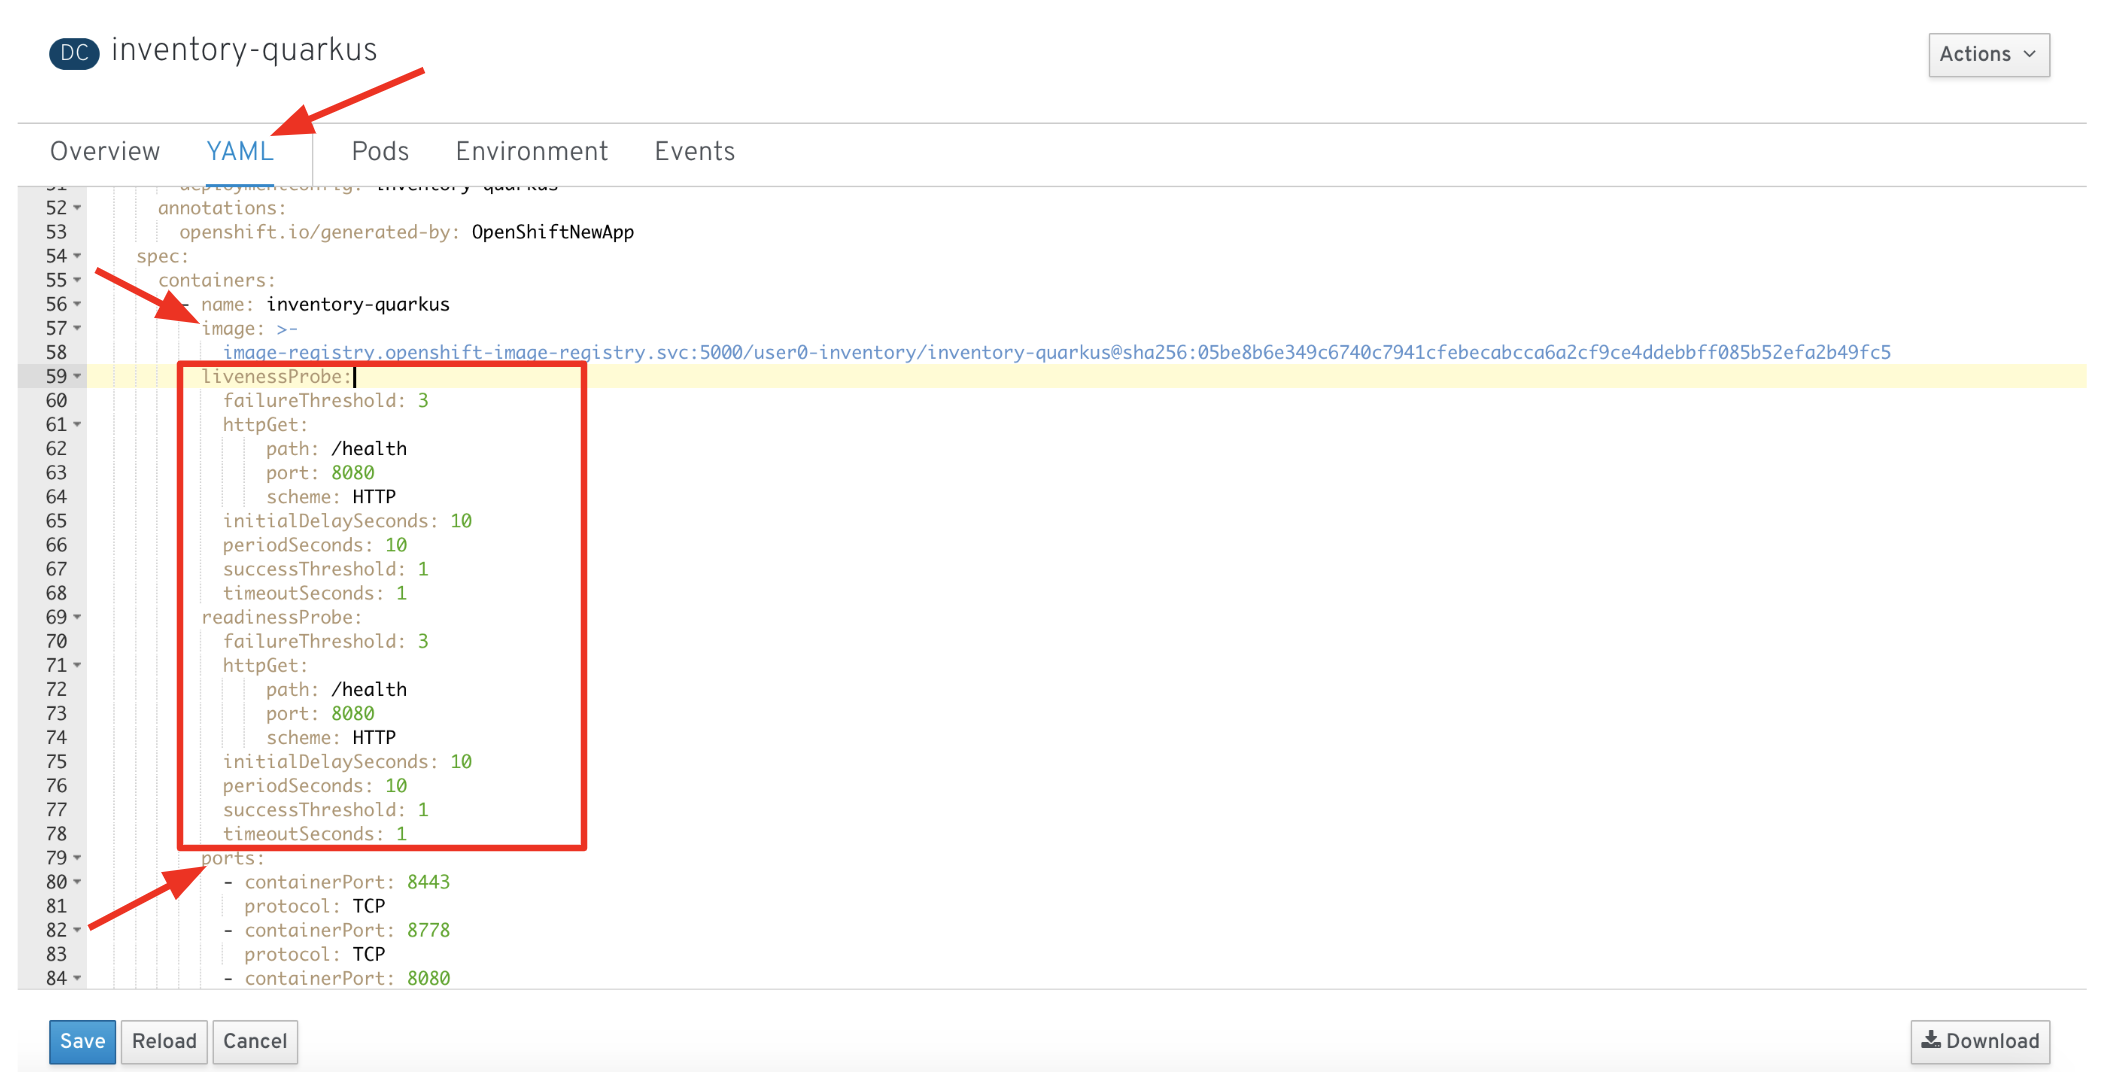
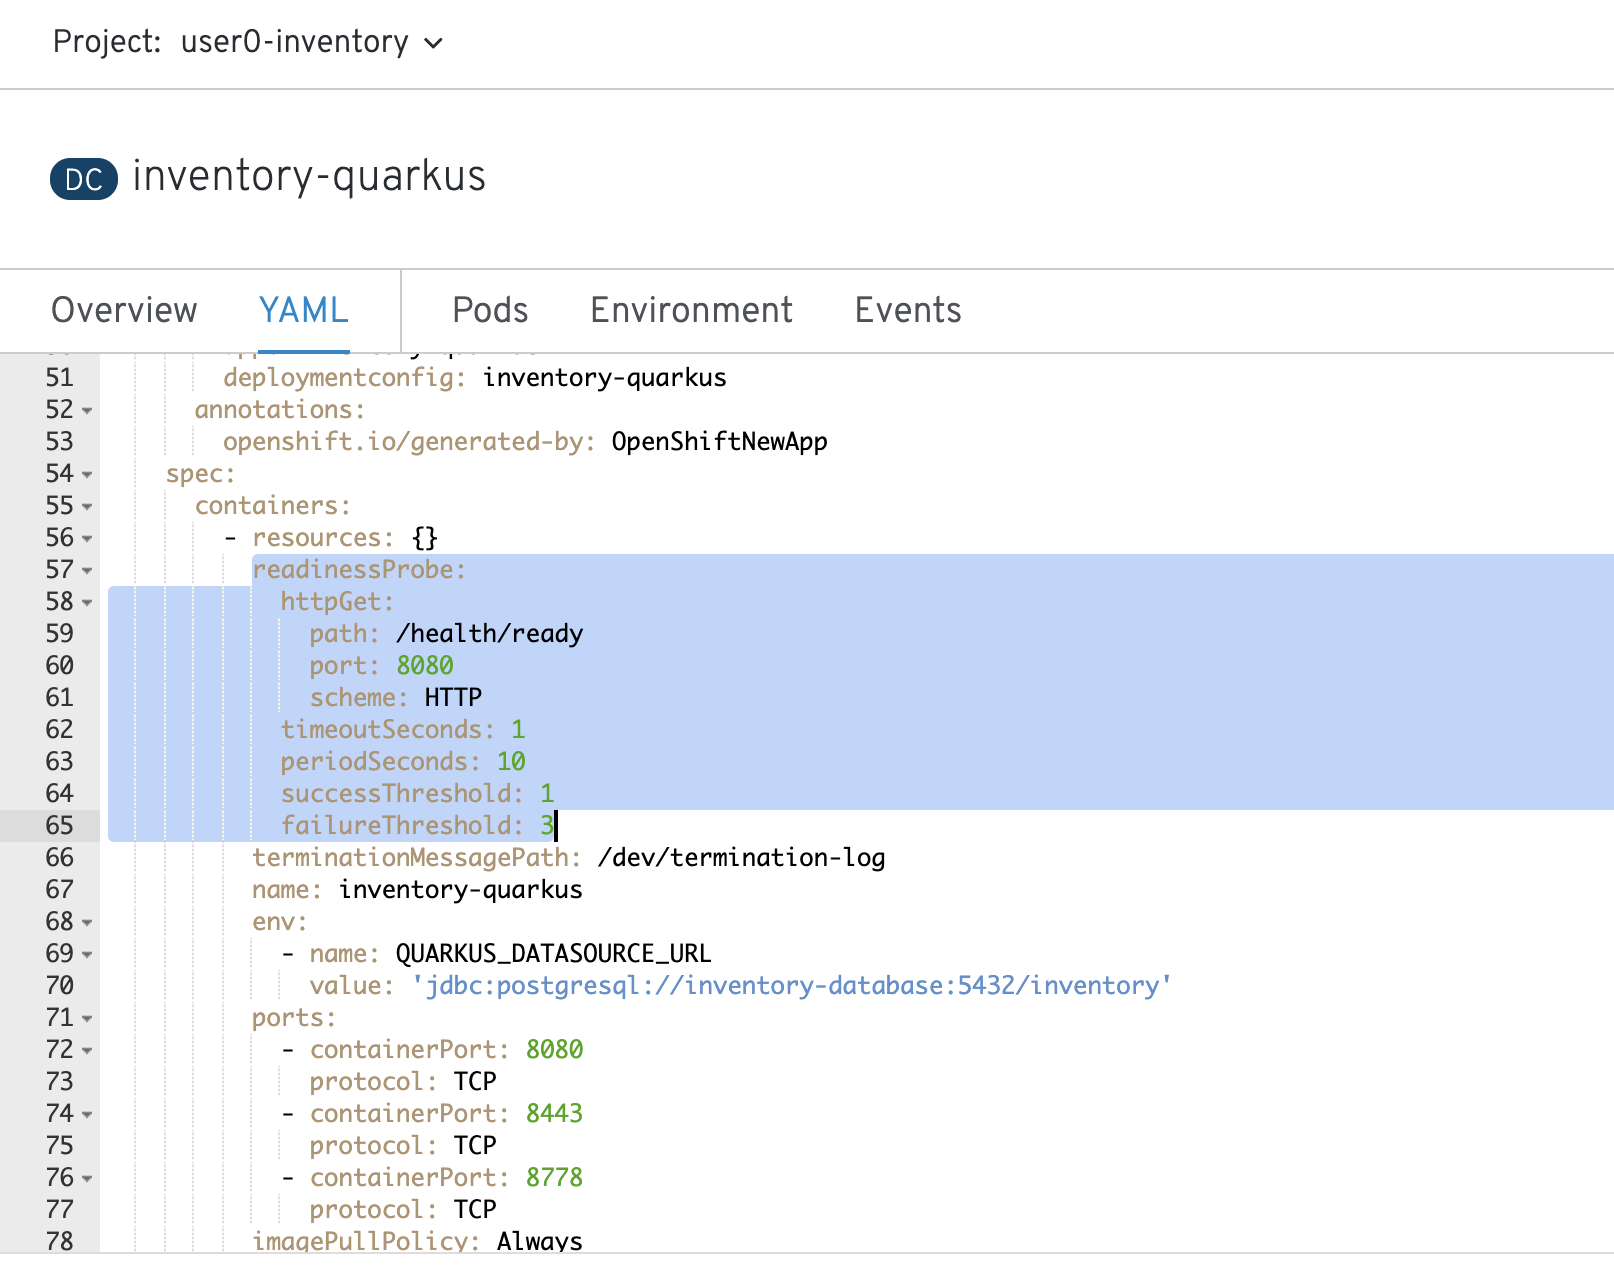
update health check

diff --git a/break-monolith-apart1.md b/break-monolith-apart1.md
@@ -144,7 +144,6 @@ Open up an **Inventory** class in _com.redhat.coolstore_ package with the follow
 package com.redhat.coolstore;
 
 import javax.persistence.Cacheable;
-import javax.persistence.Column;
 import javax.persistence.Entity;
 
 import io.quarkus.hibernate.orm.panache.PanacheEntity;
@@ -535,8 +534,7 @@ Finally, make sure it's actually done rolling out:
 
 Wait for that command to report replication controller "inventory-quarkus-1" successfully rolled out before continuing.
 
-> NOTE: Even if the rollout command reports success the application may not be ready yet and the reason for
-that is that we currently don't have any liveness check configured, but we will add that in the next steps.
+> NOTE: Even if the rollout command reports success the application may not be ready yet and the reason for that is that we currently don't have any liveness/readiness check configured, but we will add that in the next steps.
 
 And now we can access using curl once again to find all inventories:
 
@@ -573,30 +571,15 @@ to accept requests.
 
 ##### What is MicroProfile Health?
 
-**MicroProfile Health** allows applications to provide information about their state to external viewers
-which is typically useful in cloud environments where automated processes must be able to determine whether
-the application should be discarded or restarted. **Quarkus application** can utilize the MicroProfile Health specification through the _SmallRye Health extension_.
+**MicroProfile Health** allows applications to provide information about their state to external viewers which is typically useful in cloud environments where automated processes must be able to determine whether the application should be discarded or restarted. **Quarkus application** can utilize the MicroProfile Health specification through the _SmallRye Health extension_.
 
 ##### What is a Health Check?
 
-A key requirement in any managed application container environment is the ability to determine when the application is in a ready state. Only when an
-application has reported as ready can the manager (in this case OpenShift) act on the next step of the deployment process. OpenShift
-makes use of various _probes_ to determine the health of an application during its lifespan. A _readiness_
-probe is one of these mechanisms for validating application health and determines when an
-application has reached a point where it can begin to accept incoming traffic. At that point, the IP
-address for the pod is added to the list of endpoints backing the service and it can begin to receive
-requests. Otherwise traffic destined for the application could reach the application before it was fully
-operational resulting in error from the client perspective.
+A key requirement in any managed application container environment is the ability to determine when the application is in a ready state. Only when an application has reported as ready can the manager (in this case OpenShift) act on the next step of the deployment process. OpenShift makes use of various _probes_ to determine the health of an application during its lifespan. A _readiness_ probe is one of these mechanisms for validating application health and determines when an application has reached a point where it can begin to accept incoming traffic. At that point, the IP address for the pod is added to the list of endpoints backing the service and it can begin to receive requests. Otherwise traffic destined for the application could reach the application before it was fully operational resulting in error from the client perspective.
 
-Once an application is running, there are no guarantees that it will continue to operate with full
-functionality. Numerous factors including out of memory errors or a hanging process can cause the
-application to enter an invalid state. While a _readiness_ probe is only responsible for determining
-whether an application is in a state where it should begin to receive incoming traffic, a _liveness_ probe
-is used to determine whether an application is still in an acceptable state. If the liveness probe fails,
-OpenShift will destroy the pod and replace it with a new one.
+Once an application is running, there are no guarantees that it will continue to operate with full functionality. Numerous factors including out of memory errors or a hanging process can cause the application to enter an invalid state. While a _readiness_ probe is only responsible for determining whether an application is in a state where it should begin to receive incoming traffic, a _liveness_ probe is used to determine whether an application is still in an acceptable state. If the liveness probe fails, OpenShift will destroy the pod and replace it with a new one.
 
-In our case we will implement the health check logic in a REST endpoint and let Quarkus publish
-that logic on the _/health_ endpoint for use with OpenShift.
+In our case we will implement the health check logic in a REST endpoint and let Quarkus publish that logic on the _/health_ endpoint for use with OpenShift.
 
 ####13. Add Health Check Extension
 
@@ -655,11 +638,11 @@ package com.redhat.coolstore;
 import javax.enterprise.context.ApplicationScoped;
 import javax.inject.Inject;
 
-import org.eclipse.microprofile.health.Health;
 import org.eclipse.microprofile.health.HealthCheck;
 import org.eclipse.microprofile.health.HealthCheckResponse;
+import org.eclipse.microprofile.health.Readiness;
 
-@Health
+@Readiness
 @ApplicationScoped
 public class InventoryHealthCheck implements HealthCheck {
 
@@ -678,16 +661,13 @@ public class InventoryHealthCheck implements HealthCheck {
 }
 ~~~
 
-The **call()** method exposes an HTTP GET endpoint which will return the status of the service. The logic of
-this check does a simple query to the underlying database to ensure the connection to it is stable and available.
-The method is also annotated with Quarkus's **@Health** annotation, which directs Quarkus to expose
-this endpoint as a health check at _/health_.
+The **call()** method exposes an HTTP GET endpoint which will return the status of the service. The logic of this check does a simple query to the underlying database to ensure the connection to it is stable and available. The method is also annotated with Quarkus's **@Readiness** annotation, which directs Quarkus to expose this endpoint as a health check at _/health/ready_.
 
 > NOTE: You don't need to stop and re-run re-run the Inventory application because Quarkus will **reload the changes automatically**.
 
-Access the _health check_ endpoint again using _curl_ and the result looks like:
+Access the _Readiness health check_ endpoint again using _curl_ and the result looks like:
 
-`curl http://localhost:8080/health`
+`curl http://localhost:8080/health/ready`
 
 ~~~json
 {
@@ -701,7 +681,9 @@ Access the _health check_ endpoint again using _curl_ and the result looks like:
 }
 ~~~
 
-With our new health check in place, we'll need to build and deploy the updated application in the next step.
+With our new health check in place, we'll need to build and deploy the updated application in the next step. Before move to the next step, be sure to close the termial where you're running Quarkus development mode.
+
+`Tip`: You can define liveness probe using **@Liveness** annotation and the liveness check can be accessible at **/health/live** endpoint.
 
 ####16. Re-Deploy to OpenShift
 
@@ -726,38 +708,27 @@ And wait for the result as below:
 
 > NOTE: The # of deployment(i.e. `inventory-quarkus-2`) might be different in your project. Be sure if the sequence is increased(i.e. #1 -> #2).
 
+Let's set _readiness probe_ in OpenShift using _InventoryHealthCheck_. Run the follwing _oc set probe_ command in CodeReady Workspaces:
+
+`oc set probe dc/inventory-quarkus --readiness --get-url=http://:8080/health/ready`
+
 Back on the OpenShift console, Navigate to _Deployment Configs_ on the left menu then click on _inventory-quarkus_:
 
 ![inventory-dc]({% image_path inventory-dc.png %})
 
- Click on _YAML_ tab then copy the following _livenessProbe_, _readinessProbe_ between _image_ and _ports_ elements:
-
-You should input the following variables in Readiness Path Probe and Liveness Probe:
+ Click on _YAML_ tab then you will see the following variables in _template.spec.containers.resources_ path:
 
 ~~~yaml
-livenessProbe:
-    failureThreshold: 3
-    httpGet:
-        path: /health
-        port: 8080
-        scheme: HTTP
-    initialDelaySeconds: 10
-    periodSeconds: 10
-    successThreshold: 1
-    timeoutSeconds: 1
-readinessProbe:
-    failureThreshold: 3
-    httpGet:
-        path: /health
-        port: 8080
-        scheme: HTTP
-    initialDelaySeconds: 10
-    periodSeconds: 10
-    successThreshold: 1
-    timeoutSeconds: 1
+        readinessProbe:
+            httpGet:
+              path: /health/ready
+              port: 8080
+              scheme: HTTP
+            timeoutSeconds: 1
+            periodSeconds: 10
+            successThreshold: 1
+            failureThreshold: 3
 ~~~
-
-Click on **Save**.
 
 ![inventory-healthcheck-webconsole]({% image_path inventory-healthcheck-webconsole.png %})
 
@@ -765,7 +736,7 @@ You should also be able to access the health check logic at the _inventory_ endp
 
 `export URL="http://$(oc get route | grep inventory | awk '{print $2}')"`
 
-`curl $URL/health ; echo`
+`curl $URL/health/ready ; echo`
 
 You should see a JSON response like:
 
@@ -787,34 +758,22 @@ You can see the definition of the health check from the perspective of OpenShift
 
 You should see:
 
-
->     Liveness:   http-get http://:8080/health delay=10s timeout=1s period=10s #success=1 #failure=3
->     Readiness:  http-get http://:8080/health delay=10s timeout=1s period=10s #success=1 #failure=3
+>     Readiness:  http-get http://:8080/health/ready delay=0s timeout=1s period=10s #success=1 #failure=3
 
 ####17. Adjust probe timeout
 
 ---
 
-The various timeout values for the probes can be configured in many ways. Let's tune the _liveness probe_ initial delay so that
-we don't have to wait 3 minutes for it to be activated. Use OpenShift console, Navigate to _Deployment Configs_ -> _inventory-quarkus_ -> _YAML_
-and then update **initialDelaySeconds** in livenessProbe as below:
+The various timeout values for the probes can be configured in many ways. Let's tune the _readiness probe_ initial delay so that we have to wait 3o seconds for it to be activated. Use the _oc_ command to tune the probe to wait 30 seconds before starting to poll the probe:
 
- * initialDelaySeconds: **30**
+`oc set probe dc/inventory-quarkus --readiness --initial-delay-seconds=30`
 
-![inventory-change-deplaytime]({% image_path inventory-change-deplaytime.png %})
-
-You can also use the _oc_ command to tune the
-probe to wait 30 seconds before starting to poll the probe:
-
-`oc set probe dc/inventory-quarkus --liveness --initial-delay-seconds=30`
-
-And verify it's been changed (look at the _delay=_ value for the Liveness probe) via CodeReady Workspaces Terminal:
+And verify it's been changed (look at the _delay=_ value for the Readiness probe) via CodeReady Workspaces Terminal:
 
 `oc describe dc/inventory-quarkus | egrep 'Readiness|Liveness'`
 
 
->     Liveness:   http-get http://:8080/health delay=30s timeout=1s period=10s #success=1 #failure=3
->     Readiness:  http-get http://:8080/health delay=10s timeout=1s period=10s #success=1 #failure=3
+>     Readiness:  http-get http://:8080/health/ready delay=30s timeout=1s period=10s #success=1 #failure=3
 
 In the next step, we'll exercise the probe and watch as it fails and OpenShift recovers the application.
 
@@ -834,7 +793,7 @@ The app will begin polling the inventory as before and report success:
 
 ![Greeting]({% image_path inventory.png %})
 
-Now you will corrupt the service and cause its health check to start failing.
+Now you will corrupt the service and cause its health check to start failing. 
 To simulate the app crasing, let's kill the underlying service so it stops responding. Execute via CodeReady Workspaces Terminal:
 
 `oc rsh dc/inventory-quarkus pkill java`
@@ -849,15 +808,13 @@ unhealthy.
 ![Greeting]({% image_path inventory-fail.png %})
 
 At this point, return to the [OpenShift web console]({{ CONSOLE_URL}}){:target="_blank"} and click on the _Pods_ on the left menu. Notice that the
-**ContainersNotReady** indicates the application is failing its _liveness probe_:
+**ContainersNotReady** indicates the application is failing its _readiness probe_:
 
 ![Not Ready]({% image_path notready.png %})
 
-After too many liveness probe failures, OpenShift will forcibly kill the pod and container running the service, and spin up a new one to take
-its place. Once this occurs, the light blue circle should return to dark blue. This should take about 30 seconds.
+After too many healthcheck probe failures, OpenShift will forcibly kill the pod and container running the service, and spin up a new one to take its place. Once this occurs, the light blue circle should return to dark blue. This should take about 30 seconds.
 
-Return to the same sample app UI (without reloading the page) and notice that the UI has automatically
-re-connected to the new service and successfully accessed the inventory once again:
+Return to the same sample app UI (without reloading the page) and notice that the UI has automatically re-connected to the new service and successfully accessed the inventory once again:
 
 ![Greeting]({% image_path inventory.png %})
 
@@ -865,17 +822,12 @@ re-connected to the new service and successfully accessed the inventory once aga
 
 ---
 
-You learned a bit more about what Quarkus is, and how it can be used to create
-modern Java microservice-oriented applications.
+You learned a bit more about what Quarkus is, and how it can be used to create modern Java microservice-oriented applications.
 
-You created a new Inventory microservice representing functionality previously implmented in the monolithic
-CoolStore application. For now this new microservice is completely disconnected from our monolith and is
-not very useful on its own. In future steps you will link this and other microservices into the monolith to
+You created a new Inventory microservice representing functionality previously implmented in the monolithic CoolStore application. For now this new microservice is completely disconnected from our monolith and is not very useful on its own. In future steps you will link this and other microservices into the monolith to
 begin the process of [strangling the monolith](https://www.martinfowler.com/bliki/StranglerApplication.html){:target="_blank"}.
 
-Quarkus brings in a number of concepts and APIs from the Java EE community, so your existing
-Java EE skills can be re-used to bring your applications into the modern world of containers,
-microservices and cloud deployments.
+Quarkus brings in a number of concepts and APIs from the Java EE community, so your existing Java EE skills can be re-used to bring your applications into the modern world of containers, microservices and cloud deployments.
 
 Quarkus will be one of many components of Red Hat OpenShift Application Runtimes soon. **Stay tuned!!**
 In the next lab, you'll use Spring Boot, another popular framework, to implement additional microservices. Let's go!
